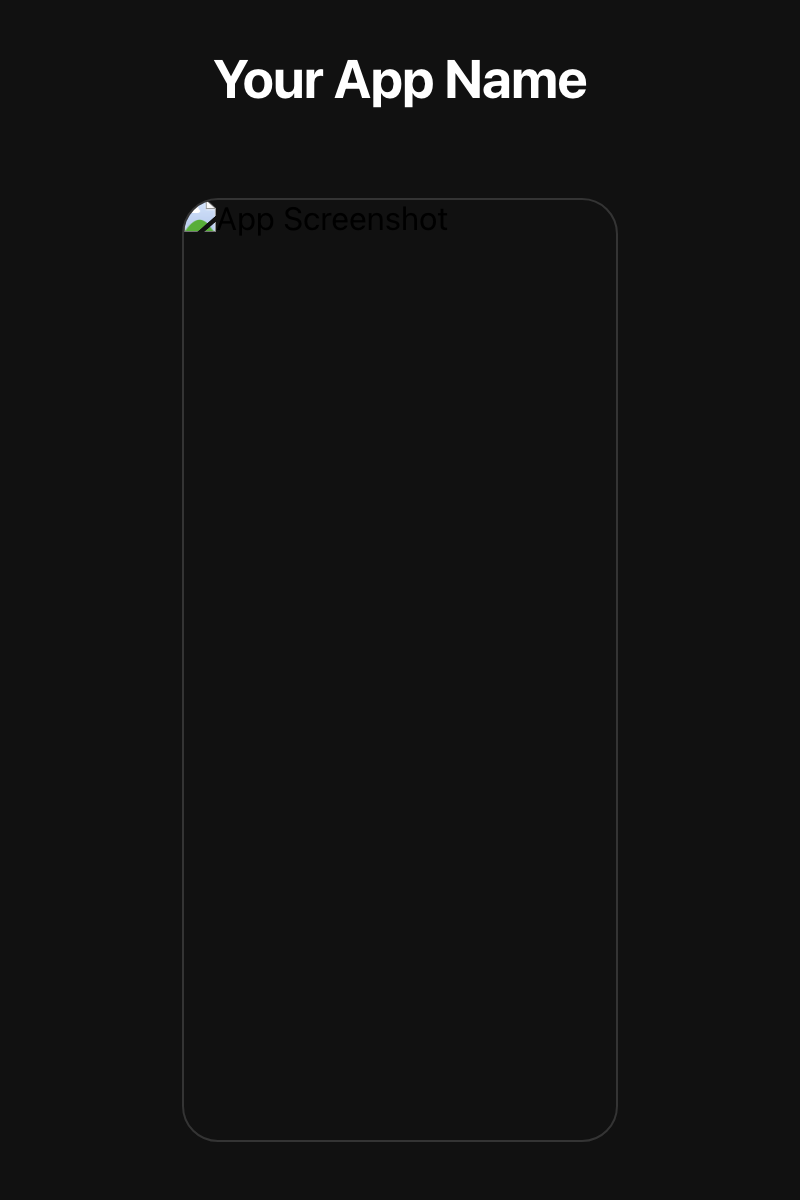
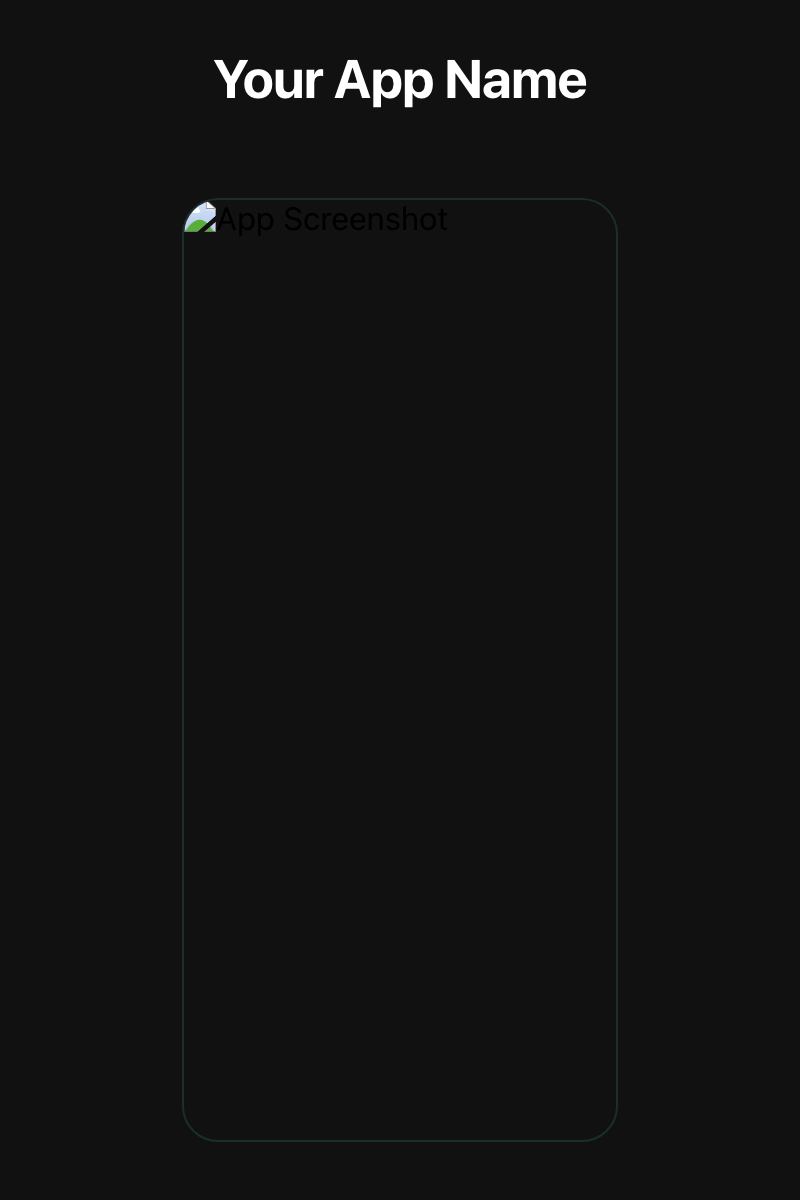
Generate thumbnails for all 7 templates
Update thumbnail script with new template entries and fix color param
formats (strip # prefix for templates that prepend it internally).

diff --git a/app/scripts/generate-thumbnails.js b/app/scripts/generate-thumbnails.js
@@ -49,7 +49,47 @@ const TEMPLATES = [
 		params: {
 			headline: 'Your App Name',
 			layout: 'text-above',
-			accent_color: '#328983',
+			accent_color: '328983',
+		},
+	},
+	{
+		id: 'bold-type',
+		params: {
+			headline: 'DO MORE',
+			subtitle: 'The smarter way to get things done',
+			bg_color: '6C5CE7',
+			text_color: 'FFFFFF',
+		},
+	},
+	{
+		id: 'glass-card',
+		params: {
+			headline: 'Your App Name',
+			color_1: '6C5CE7',
+			color_2: '00B894',
+			color_3: 'FD79A8',
+		},
+	},
+	{
+		id: 'panoramic',
+		params: {
+			headline: 'Your App Name',
+			gradient_from: '667EEA',
+			gradient_to: 'F093FB',
+			gradient_angle: '135',
+			slide: '3',
+			total_slides: '5',
+		},
+	},
+	{
+		id: 'feature-callout',
+		params: {
+			headline: 'Your App Name',
+			badge_text: 'New Feature',
+			badge_position: 'middle',
+			bg_color: 'F0F0F0',
+			text_color: '1a1a1a',
+			accent_color: '328983',
 		},
 	},
 ];
